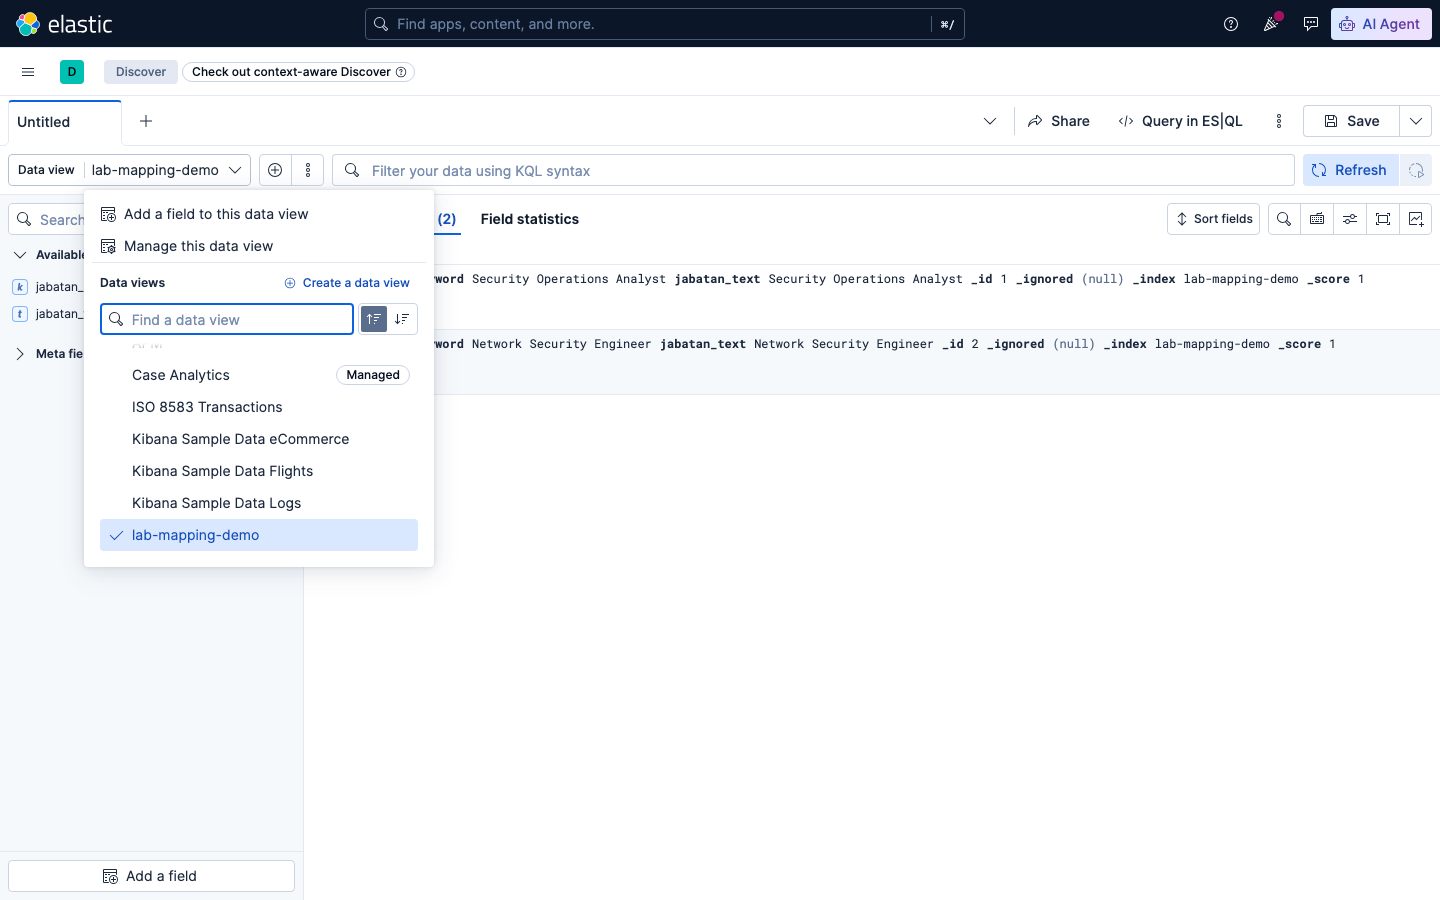
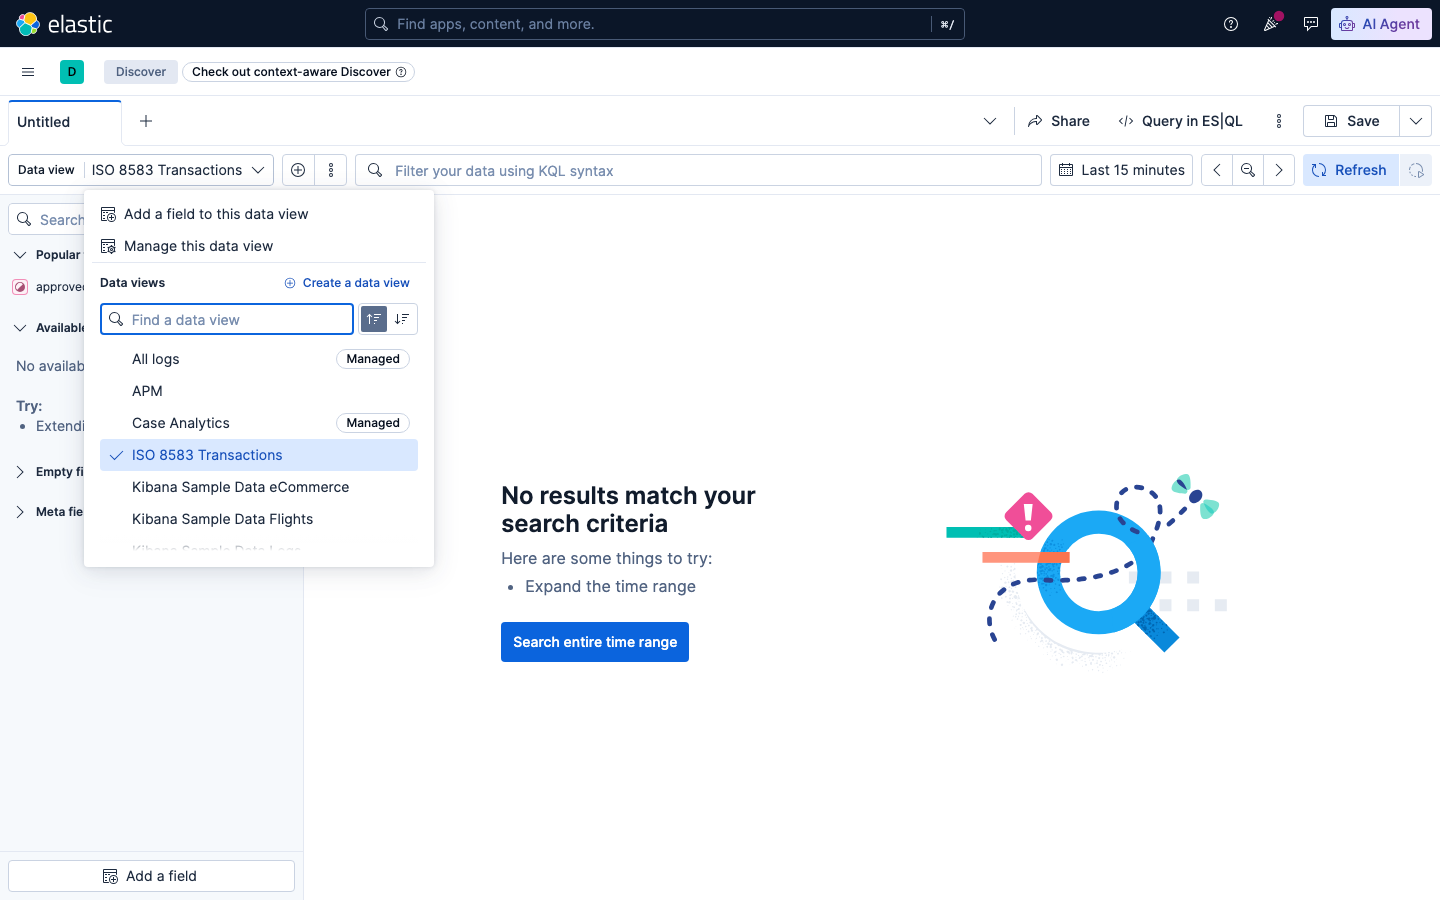
Sesi 3: samakan gaya penulisan dengan sesi lain, sederhanakan info teknis, perbaiki screenshot 13
- Ganti "peserta"/"kamu" jadi "Anda" (konsisten dengan pronoun yang sudah
  dipakai di topik 1-3) dan samakan gaya disclaimer non-deterministik.
- Sederhanakan penjelasan jadwal rate generator (hapus rincian "jam
  pertama 10, jam kedua 2, dst.") jadi kalimat ringkas non-teknis.
- Retake screenshot 13: ISO 8583 Transactions sekarang tercentang sebagai
  data view aktif (sebelumnya lab-mapping-demo, data leftover tidak
  relevan, yang tercentang).

diff --git a/lab/day-2-query-relevance/sesi-3-query-dsl/README.md b/lab/day-2-query-relevance/sesi-3-query-dsl/README.md
@@ -246,10 +246,9 @@ Elasticsearch.
 
 ![Diagram alur data ISO 8583: Generator membuat pesan mentah, Translator decode jadi JSON, lalu Filebeat, Logstash, dan Elasticsearch](../../../docs/diagrams/sesi3-iso8583-pipeline-flow.svg)
 
-*Alur lengkapnya — bandingkan dengan diagram topologi Robot Shop di Sesi 4:
-di sana peserta cuma OBSERVASI sistem yang sudah jalan, di sini peserta
-melihat DATA-nya berpindah dari mentah (hex, tidak terbaca) sampai jadi
-dokumen yang bisa di-query.*
+*Alur lengkapnya — mirip diagram topologi Robot Shop di Sesi 4, hanya saja
+di sini Anda melihat DATA-nya sendiri berpindah dari mentah (hex, tidak
+terbaca) sampai jadi dokumen yang bisa di-query.*
 
 **Bagaimana raw ISO 8583 berubah jadi JSON?** Analogi singkatnya:
 
@@ -257,7 +256,7 @@ dokumen yang bisa di-query.*
 
 *Bitmap-nya berfungsi seperti "daftar isi" — sebelum tahu field apa saja yang
 menyusul, translator baca Bitmap dulu, baru tahu cara memotong sisa
-untaian hex jadi field satu-per-satu (mirip cara kamu baca `_mapping` untuk
+untaian hex jadi field satu-per-satu (mirip cara Anda baca `_mapping` untuk
 tahu tipe field sebelum query, di topik 3).*
 
 **Nyalakan sumber data live** *(prasyarat: stack Sesi 1 masih jalan)*:
@@ -267,16 +266,13 @@ docker compose up -d
 python3 generate_iso8583_stream.py
 ```
 Biarkan terminal generator tetap terbuka — `Ctrl+C` kapan saja untuk
-berhenti. Default: **jam pertama 10 transaksi/menit, jam kedua 2
-transaksi/menit, jam ketiga 10 lagi, jam keempat 2 lagi**, dst. bergantian
-terus tanpa jeda (beda dari pola ON/OFF Robot Shop — di sini traffic-nya
-tetap ada, cuma naik-turun kepadatannya, mensimulasikan jam sibuk vs sepi).
+berhenti. Kepadatan traffic-nya naik-turun mengikuti waktu (mensimulasikan
+jam sibuk vs jam sepi), bukan angka konstan.
 
 > **INFORMATION:** persentase transaksi approve/decline di-random ulang
-> setiap siklus, dan jumlah dokumen terus bertambah selama generator
-> jalan — hasil hits query di bawah **akan berbeda** dari yang tertulis di
-> sini dan dari punya peserta lain, itu normal (pola sama seperti traffic
-> Robot Shop di Sesi 4/6).
+> secara berkala, dan jumlah dokumen terus bertambah selama generator
+> jalan — hasil hits query di bawah pasti berbeda dari yang tertulis di
+> sini, hal ini normal (pola sama seperti traffic Robot Shop di Sesi 4/6).
 
 Field yang relevan:
 
@@ -329,9 +325,9 @@ pattern `iso8583-transactions-*`, timestamp field `@timestamp`.
 
 **Contoh Implementasi — Discover dengan data ISO 8583:**
 
-![Kibana Discover dengan dropdown data view menampilkan pilihan ISO 8583 Transactions](../../../docs/screenshots/sesi-3/13-discover-pilih-data-view-iso8583.png)
+![Kibana Discover dengan dropdown data view, ISO 8583 Transactions tercentang sebagai data view aktif](../../../docs/screenshots/sesi-3/13-discover-pilih-data-view-iso8583.png)
 
-*1. Klik nama data view di kiri atas, pilih data view ISO 8583 yang baru dibuat.*
+*1. Klik nama data view di kiri atas untuk buka dropdown, lalu pilih "ISO 8583 Transactions" — tanda centang menunjukkan data view ini yang aktif.*
 
 ![Kibana Discover menampilkan dokumen transaksi ISO 8583](../../../docs/screenshots/sesi-3/14-discover-data-iso8583.png)
 
